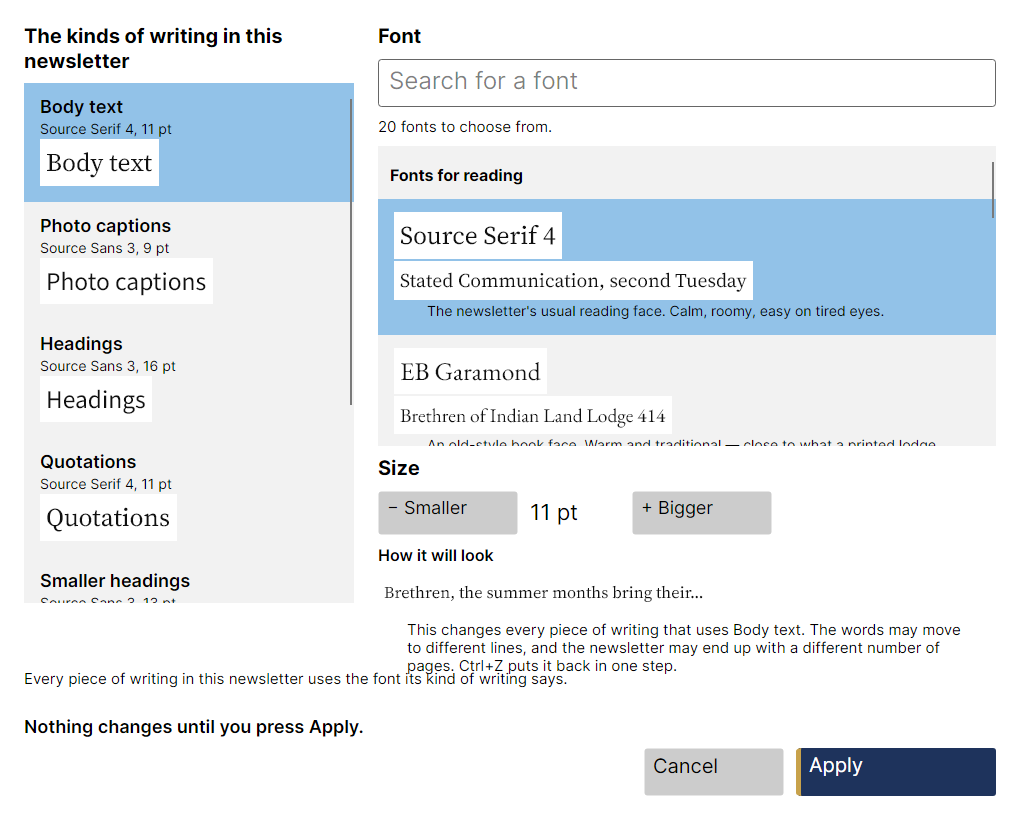
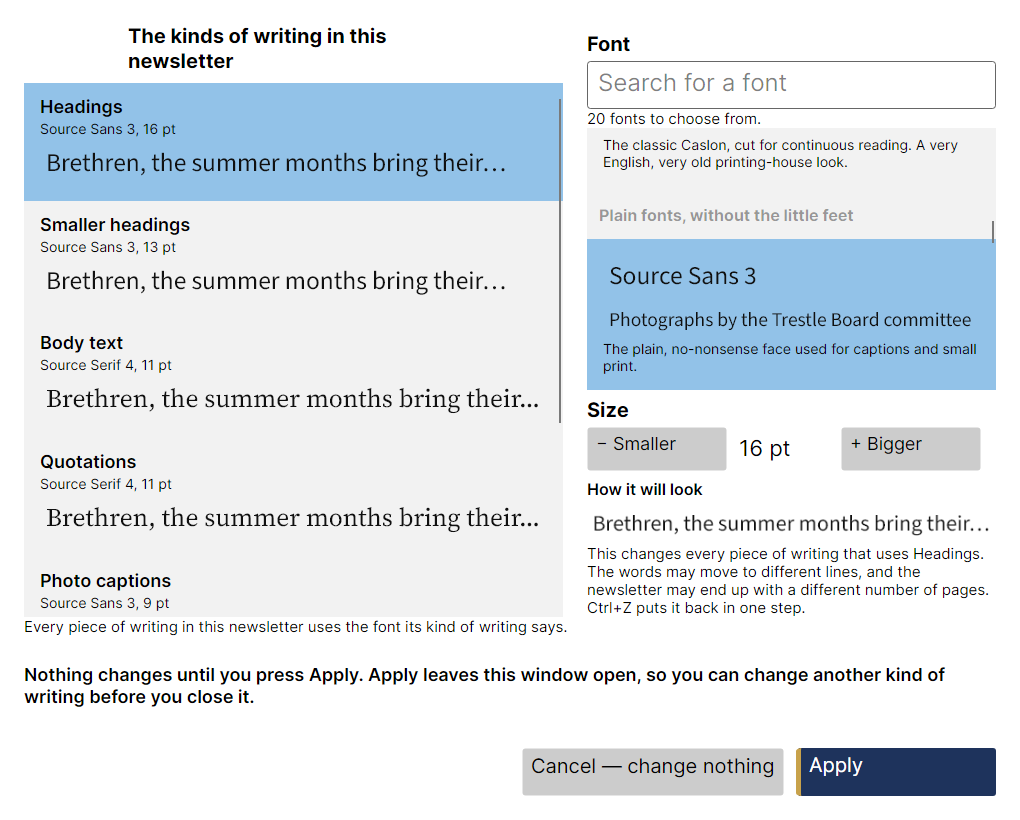
docs(M20): the milestone spec, the plan's record, and a re-baked picture
M20-spec.md carries the ten enumerated defects, the closing change and the
test for each, why the split became two modes of one window rather than two
windows, and why switching roles applies rather than asks. PLAN.md marks
gate 17 green and adds the two manual items M20 leaves, both folded into
sittings that already existed.

diff --git a/docs/M20-spec.md b/docs/M20-spec.md
@@ -1,0 +1,180 @@
+# M20 — The font window, taken apart and put back honestly
+
+**Delivered 2026-07-28.** Implements PLAN.md §11 M20. This file records what was built, where it
+differs from the plan, and what is still open.
+
+M20 is **chrome only**. M14's engine semantics — `SetCharacterStyleFontCommand`, the `~` override
+naming, the sibling sweep, the fixed size ladder — are untouched, and `TextStylesShellTests` (M14's
+font gate, PLAN.md §12 item 11) re-runs **unchanged** as the proof. Not one snapshot baseline moved
+and no layouter was opened.
+
+What changed is that the window stopped throwing away what the user picked. The rule the whole
+milestone mechanises:
+
+> Nothing in this window discards a choice without either applying it or saying, in words, that it
+> is not applying it. Cancel is the only path that changes nothing, and Cancel says so on the
+> button.
+
+---
+
+## 1. The ten defects, and what closed each
+
+The hands-on session of 2026-07-27 enumerated ten. Each row names the closing change and the test or
+picture that holds it closed.
+
+| | Defect | Closed by | Held by |
+|---|---|---|---|
+| (a) | Category headings were selectable, and selecting one silently discarded the pending choice | Heading rows are unselectable, unfocusable, un-hit-testable, and skipped in the direction of travel | `ACategoryHeadingCannotBeSelectedAndKeepsThePendingChoice` |
+| (b) | Apply with nothing pending was a silent no-op | Apply says "Nothing to change yet — pick a different font or size first." | `ApplyWithNothingPendingSaysSoInsteadOfDoingNothing` |
+| (c) | Switching roles discarded unapplied edits | Switching applies the pending edit first and names whose it was; closing the window applies it too | `SwitchingRolesAppliesThePendingChangeAndSaysWhose`, `ClosingTheWindowAppliesAPendingChangeRatherThanLosingIt`, `CancelIsTheOnlyPathThatChangesNothing` |
+| (d) | "Just here" reused the whole-newsletter sheet with the wrong warning | `TextStylesMode.JustHere`: no role list, the selection's own words in the preview, a selection-scoped warning | `JustHereShowsNoOtherRolesAndOnlyTheSelectionScopedWarning`, `JustHereAppliesToTheHighlightedWordsAndCloses` |
+| (e) | Fixed pixel heights clipped at large fonts | Every fixed `Height` gone; the lists take a `*` grid row and the window carries min/max bounds | `docs/images/font-picker.png`, and the 200 % pass in §5 |
+| (f) | `ListBox` inside a `ScrollViewer` broke virtualization | The outer `ScrollViewer`s are gone and the rows are DATA (`FontRow`, `RoleEntry`) behind a `FuncDataTemplate`, not pre-built controls | the same picture — the selected family is scrolled into view, which a broken bring-into-view cannot do |
+| (g) | Preview chips painted an opaque white plate, illegible on the selection highlight | Previews are rasterised on a **transparent** background; the foreground stays a parameter | `docs/images/font-picker.png` (the selected row reads), and the by-eye pass in §5 |
+| (h) | Roles sorted by raw style name | `StyleLabels.DeclaredOrder` — the order a page is read in | `RolesCarryADeclaredSemanticOrderRatherThanTheAlphabetOfTheirRawNames`, `TheRolesAreListedInTheOrderAPageIsReadIn` |
+| (i) | The label printed twice per row | The rendered-PNG copy of the role label went; the font sample line stayed | `BuildRoleRow`, and the picture |
+| (j) | Search re-rendered every preview per keystroke | A 200 ms debounce **and** `FontPreviewCache` | `TheSecondAskForTheSamePreviewComesOutOfTheCache` |
+
+---
+
+## 2. The split (never-cut item 1)
+
+One class, two modes, chosen at construction:
+
+```csharp
+public enum TextStylesMode { Newsletter, JustHere }
+```
+
+Two windows would have duplicated the font list, the size ladder, the preview and the pending-change
+model — four things that must not drift apart — to separate two footers and a list. One class with a
+mode keeps the shared machinery shared and makes the differences enumerable in one place:
+
+| | `Newsletter` | `JustHere` |
+|---|---|---|
+| Title | "Fonts and text styles" | "Use a different font just here" |
+| Role list | every base role | **none** |
+| Preview words | the newsletter's first words | **the highlighted words** (`TextEditorController.SelectedText`) |
+| Warning | "…every piece of writing that uses Body text … a different number of pages" | "This changes only the writing you have selected." |
+| Whole-newsletter override footer ("Show me" / "Put them all back") | shown | **hidden** — it was never about these words |
+| Apply | applies and **stays open** | applies and closes: one selection, one answer |
+
+`MainWindow.UseFontJustHereAsync` no longer builds the sheet with its title swapped. The one new
+public member outside the App project is `TextEditorController.SelectedText`, a read-only accessor
+over machinery that already existed (`StoryNavigator.GetRangeText`) — no command, no model change.
+
+---
+
+## 3. The pending-change model (never-cut item 2)
+
+`RoleEntry` carries a per-role **baseline** (family, size) that starts at the style sheet's values
+and moves only when Apply applies. "Pending" is derived, never stored: the selected family or the
+stepped size differs from the baseline. That derivation is why the model survives the caller not
+wiring anything up — the window does not depend on the document mutating underneath it.
+
+Four exits, four behaviours, none of them silent:
+
+- **Apply** — applies, updates the baseline, refreshes the role row, says what it did, and (in
+  `Newsletter`) stays open so a second role costs no second trip. Each Apply is its own
+  `IDocumentCommand` and its own undo step, in the order pressed.
+- **Switching roles with an edit pending** — applies it first, then says: *"Your change to Body text
+  was applied before moving on — nothing was lost. You are now changing Photo captions."* The plan
+  allowed "applies or asks"; **applies** was chosen because a modal question inside a modal window
+  is exactly the interruption an elderly user reads as an error.
+- **Closing the window (the title-bar X)** — applies. The X says nothing about discarding, so it
+  must not mean it. This is `OnClosing`, so Alt+F4 and the window-menu Close go the same way.
+- **Cancel** — the one path that changes nothing, and the button now says so:
+  **"Cancel — change nothing"**. Escape reaches it through `IsCancel`.
+
+"Show me" and "Put them all back" set the same suppression flag as Cancel: both are answers to the
+override footer's question, not to the font list, and neither should smuggle a font change out with
+it.
+
+---
+
+## 4. Headings that are not choices (never-cut item 3)
+
+Three mechanisms, because a row is reached three different ways:
+
+1. **The container** — `ContainerPrepared` switches `IsEnabled`, `Focusable` and `IsHitTestVisible`
+   off for every non-family row. That covers the mouse and the tab order.
+2. **The selection guard** — if selection lands on a heading anyway, it steps to the next family
+   **in the direction of travel** (and the other way if the list ends there). That is what makes an
+   arrow key skip a heading rather than stop on it.
+3. **The automation name** — the category text is not lost by making the heading unreachable: every
+   family row's name is `"{family}. {category}. {description}"`, so a screen reader hears
+   *"Lora. Fonts with little feet on the letters. A serif with brushed, calligraphic edges…"*.
+
+That third point is M14 §13's grouped-list question answered **by test**
+(`EveryHeadingsWordsSurviveOnTheFamilyRowsAutomationName`) rather than by an `AutomationPeer`. The
+NVDA confirmation is still a manual item — see §5.
+
+The **unbundled-family row** uses the same machinery: a third row kind, `Unavailable`, unselectable
+like a heading, carrying M14's language ("…this copy of TrestleBoard does not have it… the
+newsletter itself is not changed, and it will save back exactly as it was"). Before M20 a document
+naming a family this build does not bundle simply had nothing selected in the list, which reads as a
+list that has lost your font.
+
+---
+
+## 5. Layout, previews and the cache
+
+- **No fixed heights.** The role list and the font list each take a `*` row in their own grid and
+  own their scrolling. The window gets `MinWidth`/`MinHeight`/`MaxWidth` instead of a hard-coded
+  520-pixel viewport, so 200 % UI scale grows the lists rather than clipping them.
+- **Rows are data.** `FontRow` and `RoleEntry` behind `FuncDataTemplate`s, so the `ListBox`
+  virtualizes and brings the selected item into view. The previous design put pre-built `StackPanel`s
+  in `Items`, which realises every row whether or not it is on screen.
+- **Previews composite honestly.** Background `0x00000000`. The foreground is still a parameter
+  (`darkTheme`), never read from a static — M14's rule, kept.
+- **Previews shrink rather than crop.** An Avalonia `Image` draws an unstretched bitmap *centred* in
+  its slot whatever its alignment says, so a preview wider than the column lost a letter off each
+  end — "Brethren" read as "rethren", which is worse than useless in a window about legibility.
+  `Stretch.Uniform` with `StretchDirection.DownOnly` keeps the 1.5× rasterisation crisp at every
+  size that fits and scales only the ones that do not.
+- **`FontPreviewCache`** keys on (family, size, text, foreground, background). Weight and slant are
+  absent because this window only ever previews the Regular face; colours are present because a
+  window opened in the dark theme must not be handed the light theme's bitmaps. The bitmaps are
+  **not** disposed when the window closes: a render pass can still be queued against the rows it
+  drew, and a disposed `Bitmap` under the compositor is a crash. The cache is bounded by the bundled
+  catalogue, so the collector is the right owner.
+- **Search is debounced** at 200 ms. The debounce and the cache are separate wins: the debounce
+  stops the rebuild, the cache stops the re-rasterisation when the rebuild happens anyway.
+
+---
+
+## 6. What the plan asked for and did not get
+
+Nothing was cut. The scope-cut order (preview caching → the unbundled-family row → the role
+reorder) was never reached; all three shipped.
+
+One deliberate divergence: the plan offered "two windows, **or** one window in two explicit modes
+with different titles and footers", and this took the second option, for the reason in §2.
+
+---
+
+## 7. Still open, and owned by a person
+
+- **A manual NVDA pass over the grouped font list** — that the category is heard on each row, that
+  the arrow keys never land on a heading, and that the pending-change messages are announced (they
+  are `AutomationLiveSetting.Polite` live regions). The test proves the automation name carries the
+  category; only a person with a screen reader can prove it is *heard*. `docs/accessibility-test-
+  script.md` is where it belongs; PLAN.md §13 carries it.
+- **A by-eye pass at 200 % in all three themes.** The fixed heights are gone and the previews are
+  transparent, which is what the defect asked for; whether the result *looks* right at 200 % in High
+  Contrast is a judgement a machine cannot make. It folds into M16's existing by-eye item rather
+  than adding a second one.
+
+---
+
+## 8. Files
+
+| File | What |
+|---|---|
+| `src/TrestleBoard.App/Dialogs/TextStylesWindow.cs` | rewritten: two modes, pending-change model, data rows, unselectable headings |
+| `src/TrestleBoard.App/Dialogs/FontPreviewCache.cs` | new: rasterised lines, keyed and shared |
+| `src/TrestleBoard.App/MainWindow.axaml.cs` | `Applied` wiring; "just here" builds the picker in its own mode |
+| `src/TrestleBoard.Core/Text/StyleLabels.cs` | `DeclaredOrder`, `OrderOf` |
+| `src/TrestleBoard.Editing/TextEditorController.cs` | `SelectedText` (read-only) |
+| `tests/App.HeadlessTests/TextStylesWindowTests.cs` | new: M20's gate, 13 tests |
+| `tests/Core.Tests/StyleFontTests.cs` | the declared order |
+| `docs/images/font-picker.png` | re-baked |

diff --git a/PLAN.md b/PLAN.md
@@ -1874,6 +1874,15 @@ for zoom/pan and the find UI; **cavecrew-reviewer (Sonnet)**.
     Apply with nothing pending says so; headers are unselectable and arrow-unreachable; two roles
     changeable in one visit; "just here" shows only the selection-scoped warning; gate 11 still
     passes byte-for-byte.
+    **Green 2026-07-28.** `TextStylesWindowTests` drives all four exits through the real shell: Apply
+    applies and leaves the window open (two roles, two undo steps, one visit), switching roles with
+    an edit pending applies it first and names whose it was, the title-bar X applies rather than
+    forgets, and Cancel — now labelled "Cancel — change nothing" — is the only path that changes
+    nothing. A heading refuses the selection and the pending choice survives it; the category text
+    survives on each family row's automation name; the declared role order is tested in
+    `Core.Tests/StyleFontTests`; the preview cache answers the second ask for a size already drawn.
+    Gate 11 (`TextStylesShellTests`) re-runs **unchanged** — M20 opened no engine file — and no
+    snapshot baseline moved.
 18. **Conveniences gate (M21):** every new action keyboard-reachable and menu-indexed (mechanical);
     align and distribute are one undo step each; find reaches the second frame of a linked chain;
     Ctrl+wheel holds the point under the pointer stationary; no snapshot baseline moves.
@@ -1905,6 +1914,12 @@ Windows (946 passed, 12 skipped — the `pdftoppm` parity tests, which are Linux
 > address book behind a per-office diff dialog, and M13's officer-generation deferral is formally
 > overturned on its own stated condition (`docs/M13-spec.md` §1 carries the marker). It moved no
 > snapshot baseline and changed no layouter. **M20 and M21 remain scheduled in that order.**
+>
+> **M20 delivered 2026-07-28** (`docs/M20-spec.md`) — the font window is two explicit modes, it
+> applies rather than discards on every exit but Cancel, and its category headings are no longer
+> choices. All ten enumerated defects closed; nothing was cut. Chrome only: no engine file was
+> opened, M14's font gate re-ran unchanged, and no snapshot baseline moved. It leaves two manual
+> items (below), both folded into passes that already existed. **M21 alone remains scheduled.**
 
 What is left is listed here so a future session does not have to re-derive it from seven spec
 documents. Each item is blocked on a person, a machine, or a decision that is the owner's to make;
@@ -1968,6 +1983,15 @@ The one item a machine could take on is the last defect named after the list, an
       printed page and said the words under the photograph are the right size and distance from it.
       Needs the same person as the real-world test and can be run in the same sitting;
       `docs/M18-spec.md` §3 records the three sizing constants to judge.
+- [!] **A manual NVDA pass over M20's grouped font list** (§11 M20 acceptance). The test proves each
+      family row's automation name carries its category, and that headings are unselectable and
+      arrow-unreachable; only a person with a screen reader can say the grouping is *heard* and that
+      the pending-change messages (polite live regions) are announced. Same person and same sitting
+      as the M17 menu-bar pass; `docs/M20-spec.md` §7.
+- [!] **The font window at 200% in all three themes**, by eye. M20 removed every fixed pixel height
+      and made the previews transparent, which is what the defects asked for; whether the result
+      looks right at 200% in High Contrast is a judgement. It folds into M16's by-eye item above
+      rather than standing as a second sitting.
 
 Of the three known defects recorded here, **the two cosmetic ones are fixed (2026-07-27)** — they
 turned out to be App-only chrome fixes that re-bake no snapshot baseline, so closing them opened no
